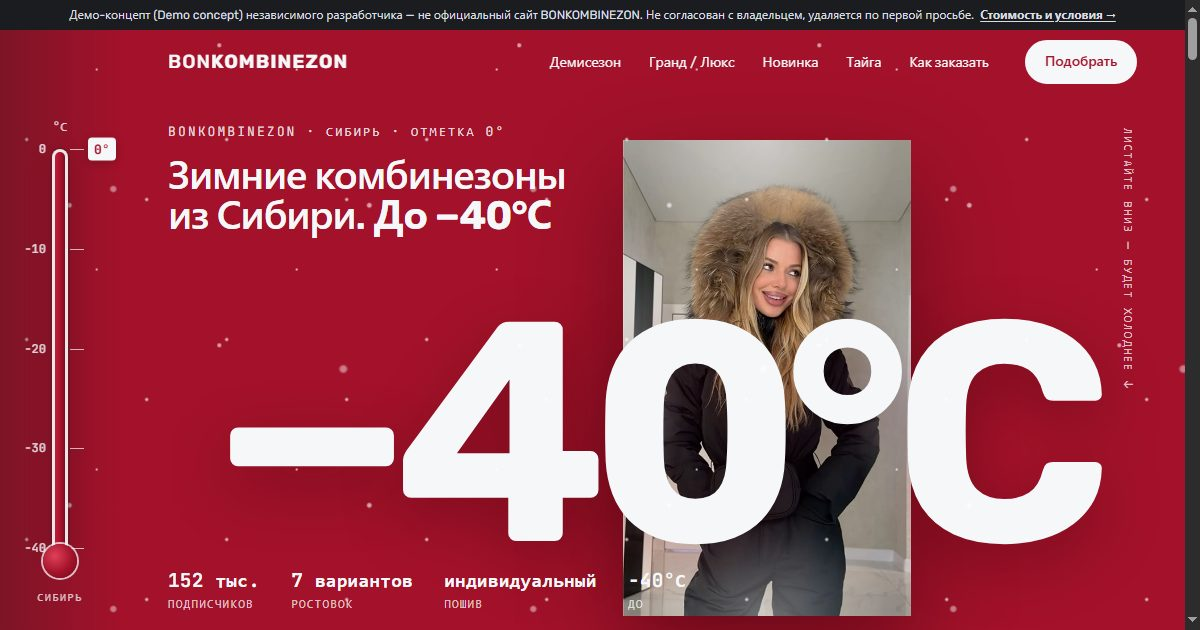
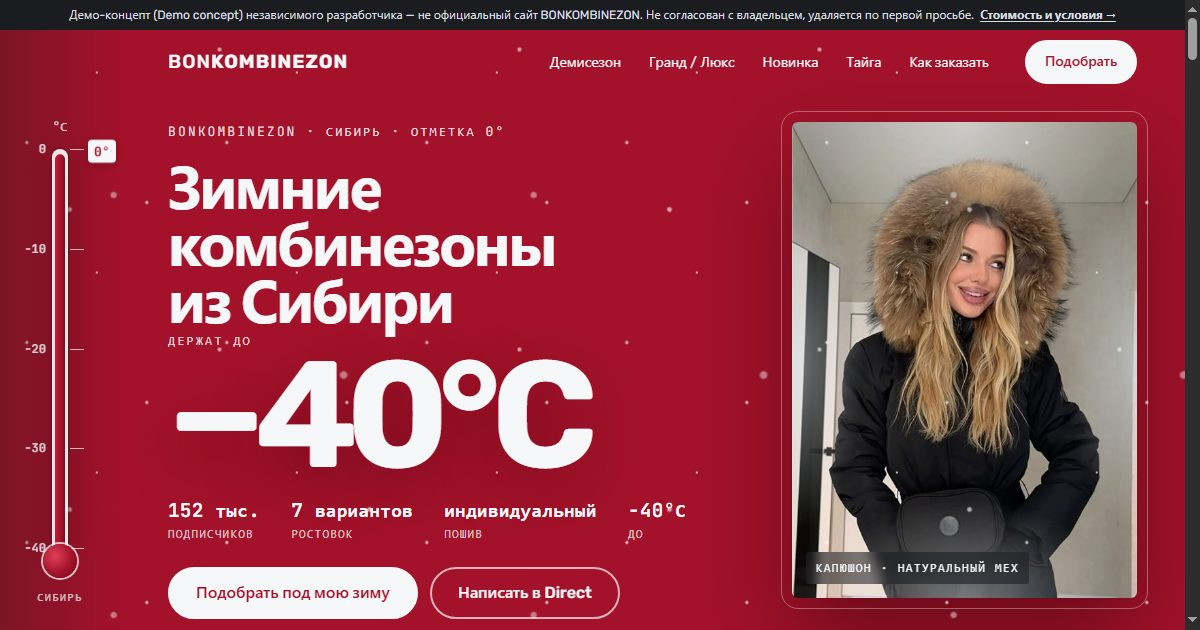
Bonkombinezon: new split hero

diff --git a/bonkombinezon/style.css b/bonkombinezon/style.css
@@ -93,24 +93,23 @@ main section{position:relative;padding:clamp(80px,12vh,140px) var(--pad) clamp(8
 .spec li::before{content:"—";opacity:.6}
 
 /* HERO */
-.s-hero{min-height:calc(100svh - 30px);background:var(--klk);display:grid;grid-template-rows:auto 1fr auto;overflow:hidden;margin-top:calc(var(--hdr) * -1);padding-top:calc(var(--hdr) + 28px) !important;padding-bottom:40px !important}
-.hero-top{position:relative;z-index:5;display:flex;flex-direction:column;gap:14px;max-width:46%}
+.s-hero{min-height:calc(100svh - 30px);background:var(--klk);display:grid;grid-template-columns:minmax(0,1.25fr) minmax(0,.75fr);grid-template-rows:auto 1fr auto;column-gap:clamp(24px,4vw,72px);overflow:hidden;margin-top:calc(var(--hdr) * -1);padding-top:calc(var(--hdr) + 28px) !important;padding-bottom:40px !important}
+.hero-top{position:relative;z-index:5;display:flex;flex-direction:column;gap:18px;grid-column:1;grid-row:1}
 .eyebrow{font-size:13px;letter-spacing:.16em;text-transform:uppercase;opacity:.85}
-.s-hero h1{font-size:clamp(30px,3.3vw,54px);font-weight:500;line-height:1.02}
-.s-hero h1 span{font-weight:700;color:var(--snow);white-space:nowrap}
-.hero-stage{position:relative;height:max(320px,min(40vw,calc(100svh - 400px)));display:flex;align-items:flex-end;justify-content:center}
-.hero-num{position:absolute;left:50%;bottom:0;transform:translateX(-50%);font:700 30vw/0.78 var(--sans);letter-spacing:-.06em;color:var(--snow);white-space:nowrap;user-select:none;font-size:min(30vw,calc((100vw - var(--rail)) * .29))}
-.hero-num.back{display:none}
-.hero-num.front{z-index:4;pointer-events:none;text-shadow:0 20px 60px rgba(60,0,12,.35)}
-.hero-photo{position:absolute;z-index:2;left:47%;bottom:-60px;width:clamp(220px,24vw,380px);aspect-ratio:968/1600;overflow:hidden;box-shadow:0 40px 90px rgba(40,0,8,.45)}
+.s-hero h1{font-size:clamp(40px,5vw,92px);font-weight:700;line-height:.95;letter-spacing:-.035em;max-width:11ch}
+.hero-stage{position:relative;z-index:4;grid-column:1;grid-row:2;display:flex;flex-direction:column;justify-content:flex-end;padding-bottom:clamp(16px,3vh,36px)}
+.hero-label{font-size:13px;letter-spacing:.16em;text-transform:uppercase;opacity:.8;margin-bottom:6px}
+.hero-num{font:700 min(15vw,24svh)/.8 var(--sans);letter-spacing:-.06em;color:var(--snow);white-space:nowrap;user-select:none;text-shadow:0 20px 60px rgba(60,0,12,.35);font-variant-numeric:tabular-nums}
+.hero-photo{position:relative;z-index:2;grid-column:2;grid-row:1 / 4;align-self:stretch;min-height:0;max-height:calc(100svh - var(--hdr) - 90px);border-radius:6px;overflow:hidden;box-shadow:0 40px 90px rgba(40,0,8,.45);outline:1px solid rgba(245,247,249,.35);outline-offset:10px}
 .hero-photo img{width:100%;height:100%;object-fit:cover;object-position:50% 18%;transform-origin:50% 22%}
-.hero-bot{position:relative;z-index:5;display:flex;justify-content:space-between;align-items:flex-end;gap:24px;flex-wrap:wrap;margin-top:10px}
+.hero-photo figcaption{position:absolute;left:14px;bottom:14px;z-index:3;font-size:12px;letter-spacing:.12em;text-transform:uppercase;background:rgba(26,28,32,.55);backdrop-filter:blur(6px);padding:7px 10px;border-radius:3px}
+.hero-bot{position:relative;z-index:5;grid-column:1;grid-row:3;display:flex;justify-content:space-between;align-items:flex-end;gap:24px;flex-wrap:wrap}
 .stats{display:flex;gap:clamp(16px,2.6vw,40px);margin:0;flex-wrap:wrap}
 .stats div{display:flex;flex-direction:column-reverse}
 .stats dt{font-size:12px;opacity:.75;text-transform:uppercase;letter-spacing:.1em}
 .stats dd{margin:0;font-size:clamp(18px,1.6vw,24px);font-weight:700}
 .ctas{display:flex;gap:12px;flex-wrap:wrap}
-.scroll-hint{position:absolute;right:var(--pad);top:calc(var(--hdr) + 34px);font-size:12px;letter-spacing:.12em;text-transform:uppercase;opacity:.75;z-index:4;writing-mode:vertical-rl}
+.scroll-hint{display:none;position:absolute;right:var(--pad);top:calc(var(--hdr) + 34px);font-size:12px;letter-spacing:.12em;text-transform:uppercase;opacity:.75;z-index:4;writing-mode:vertical-rl}
 
 /* frost CSS fallback (phones / no WebGL) */
 .taiga-photo{position:relative;align-self:start}
@@ -325,12 +324,13 @@ input[type=range]::-moz-range-thumb{width:24px;height:24px;border-radius:50%;bac
   .tm-ticks{display:none}
   .tm-val{font:700 13px var(--mono);min-width:56px;text-align:right}
   .s-hero{margin-top:0;padding-top:28px !important;min-height:auto}
-  .hero-top{max-width:none}
-  .s-hero h1{font-size:34px}
+  .s-hero{grid-template-columns:minmax(0,1fr);grid-template-rows:auto}
+  .hero-top,.hero-stage,.hero-photo,.hero-bot{grid-column:1;grid-row:auto}
+  .s-hero h1{font-size:40px}
   .scroll-hint{display:none}
-  .hero-stage{min-height:0;height:112vw;margin-top:8px}
-  .hero-num{font-size:29vw;bottom:2%}
-  .hero-photo{left:22%;right:auto;width:54vw;bottom:0}
+  .hero-stage{margin-top:18px;padding-bottom:0}
+  .hero-num{font-size:27vw}
+  .hero-photo{order:0;margin-top:22px;aspect-ratio:4/5;max-height:none;outline-offset:6px}
   .hero-bot{flex-direction:column;align-items:stretch;margin-top:22px}
   .stats{display:grid;grid-template-columns:minmax(0,1fr) minmax(0,1fr);gap:14px}
   .ctas{flex-direction:column}

diff --git a/bonkombinezon/index.html b/bonkombinezon/index.html
@@ -62,15 +62,16 @@
 <section class="s-hero" data-t="0" data-tone="dark" id="hero">
   <div class="hero-top">
     <p class="mono eyebrow">BONKOMBINEZON · Сибирь · отметка 0°</p>
-    <h1>Зимние комбинезоны<br>из&nbsp;Сибири. <span>До&nbsp;−40°С</span></h1>
+    <h1>Зимние комбинезоны из&nbsp;Сибири</h1>
   </div>
   <div class="hero-stage">
-    <div class="hero-num back" aria-hidden="true">−40°C</div>
-    <figure class="hero-photo frost-css" data-frost="hero">
-      <img src="img/p8.jpg" srcset="img/p8-m.jpg 540w, img/p8.jpg 968w" sizes="(max-width:760px) 62vw, 26vw" alt="Девушка в чёрном зимнем комбинезоне BONKOMBINEZON с капюшоном из натурального меха и поясной сумкой" fetchpriority="high">
-    </figure>
-    <div class="hero-num front" aria-hidden="true">−40°C</div>
+    <p class="mono hero-label">держат до</p>
+    <div class="hero-num" aria-label="до минус 40 градусов">−40°C</div>
   </div>
+  <figure class="hero-photo frost-css" data-frost="hero">
+    <img src="img/p8.jpg" srcset="img/p8-m.jpg 540w, img/p8.jpg 968w" sizes="(max-width:760px) 92vw, 34vw" alt="Девушка в чёрном зимнем комбинезоне BONKOMBINEZON с капюшоном из натурального меха и поясной сумкой" fetchpriority="high">
+    <figcaption class="mono">капюшон · натуральный мех</figcaption>
+  </figure>
   <div class="hero-bot">
     <dl class="stats mono">
       <div><dt>подписчиков</dt><dd>152&nbsp;тыс.</dd></div>
